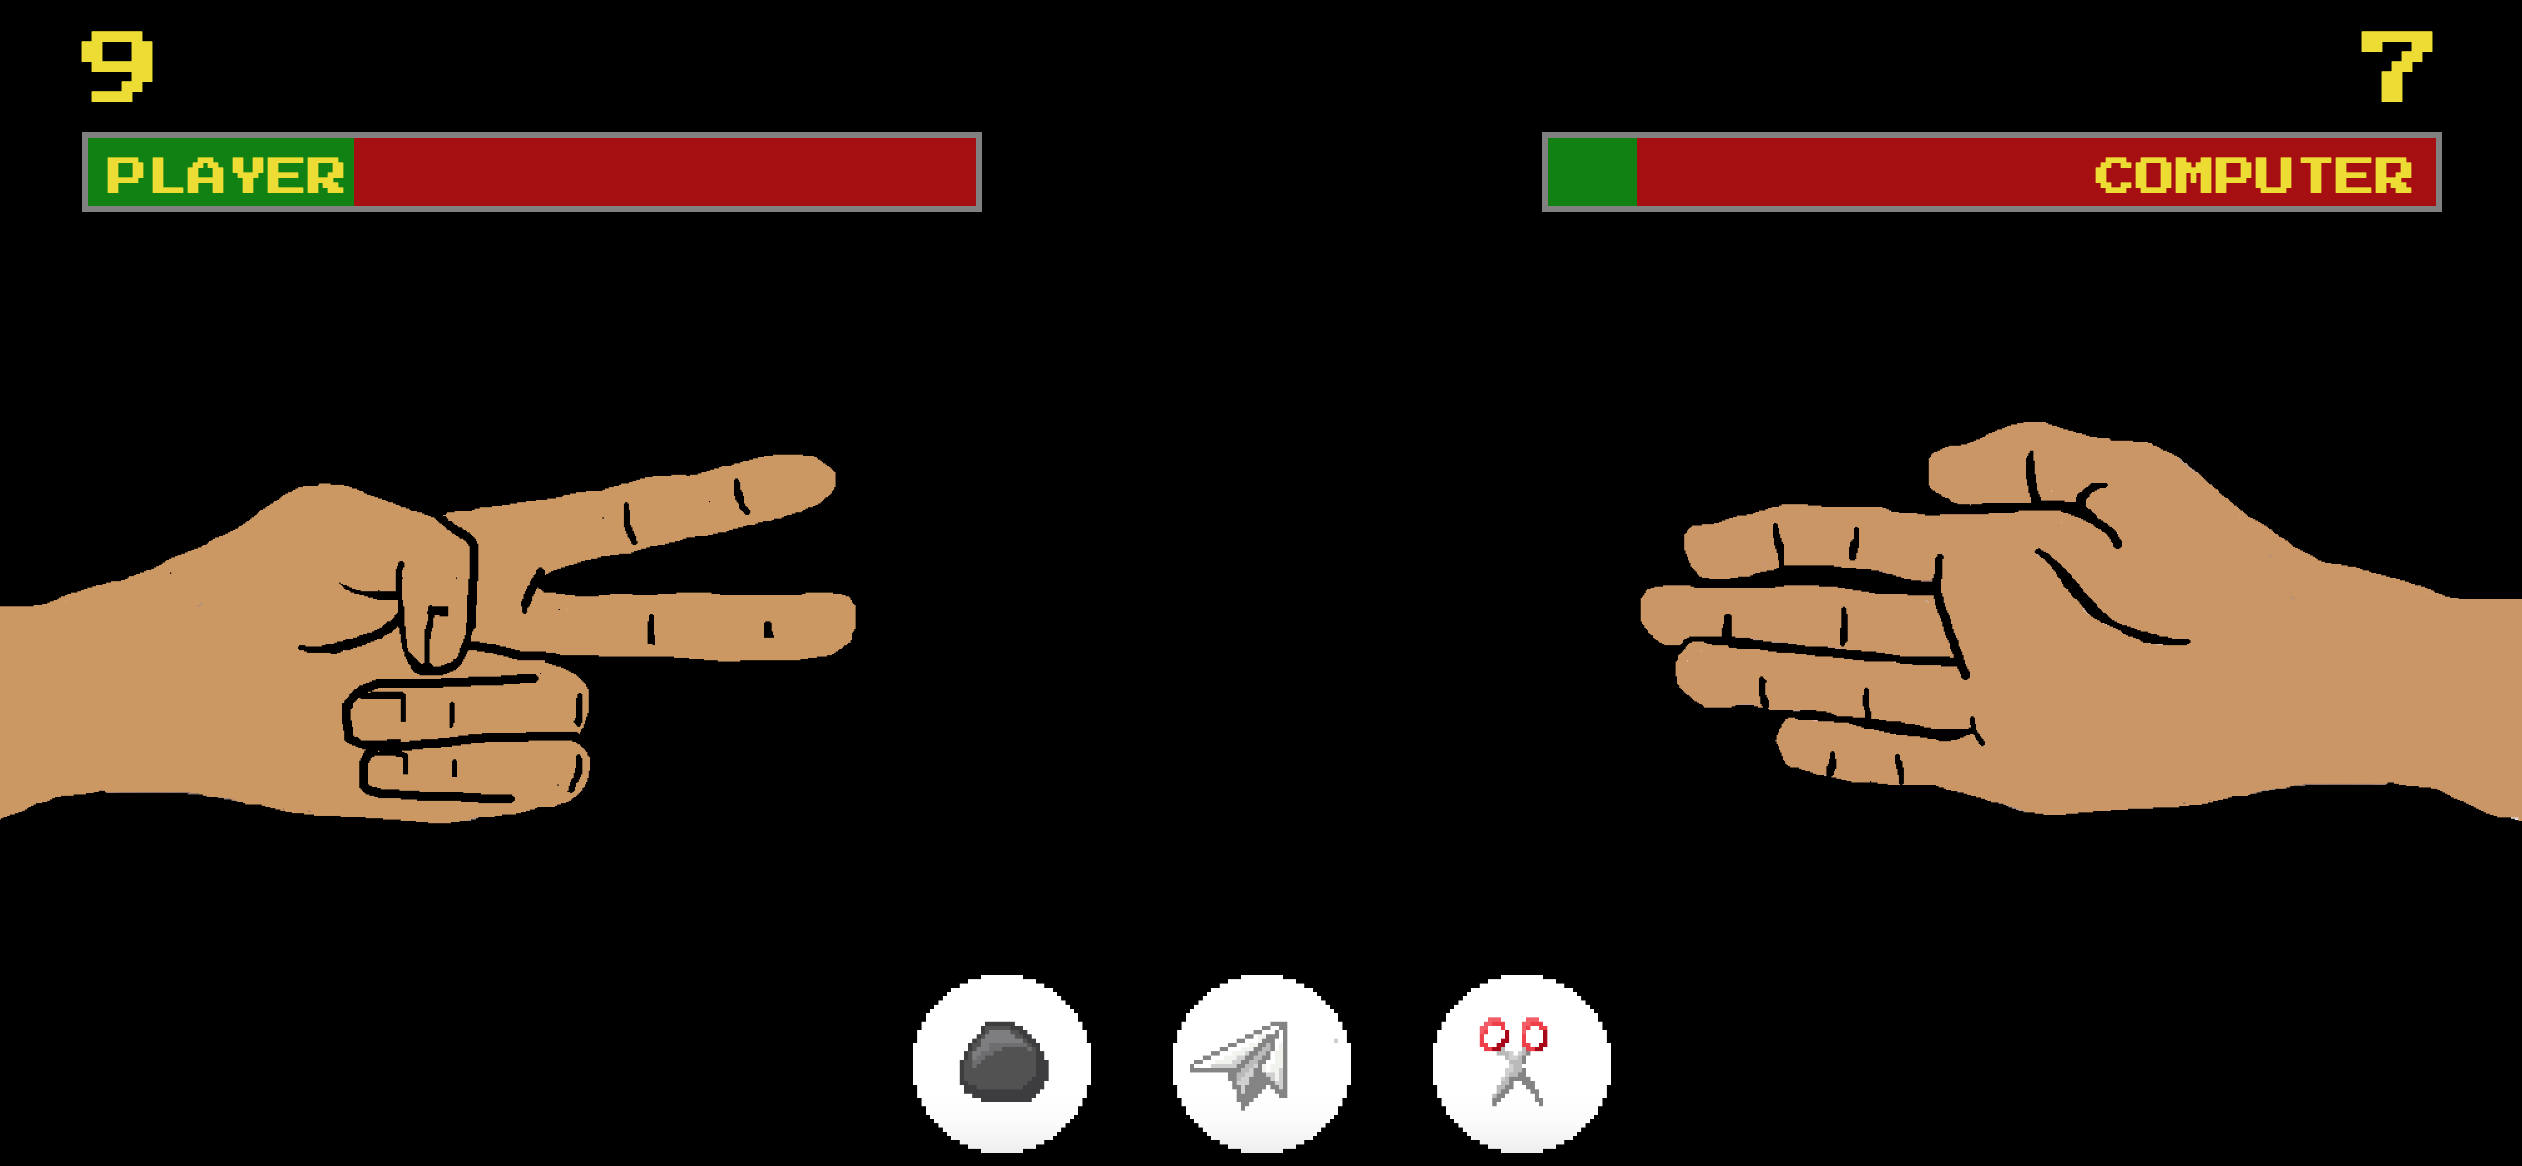
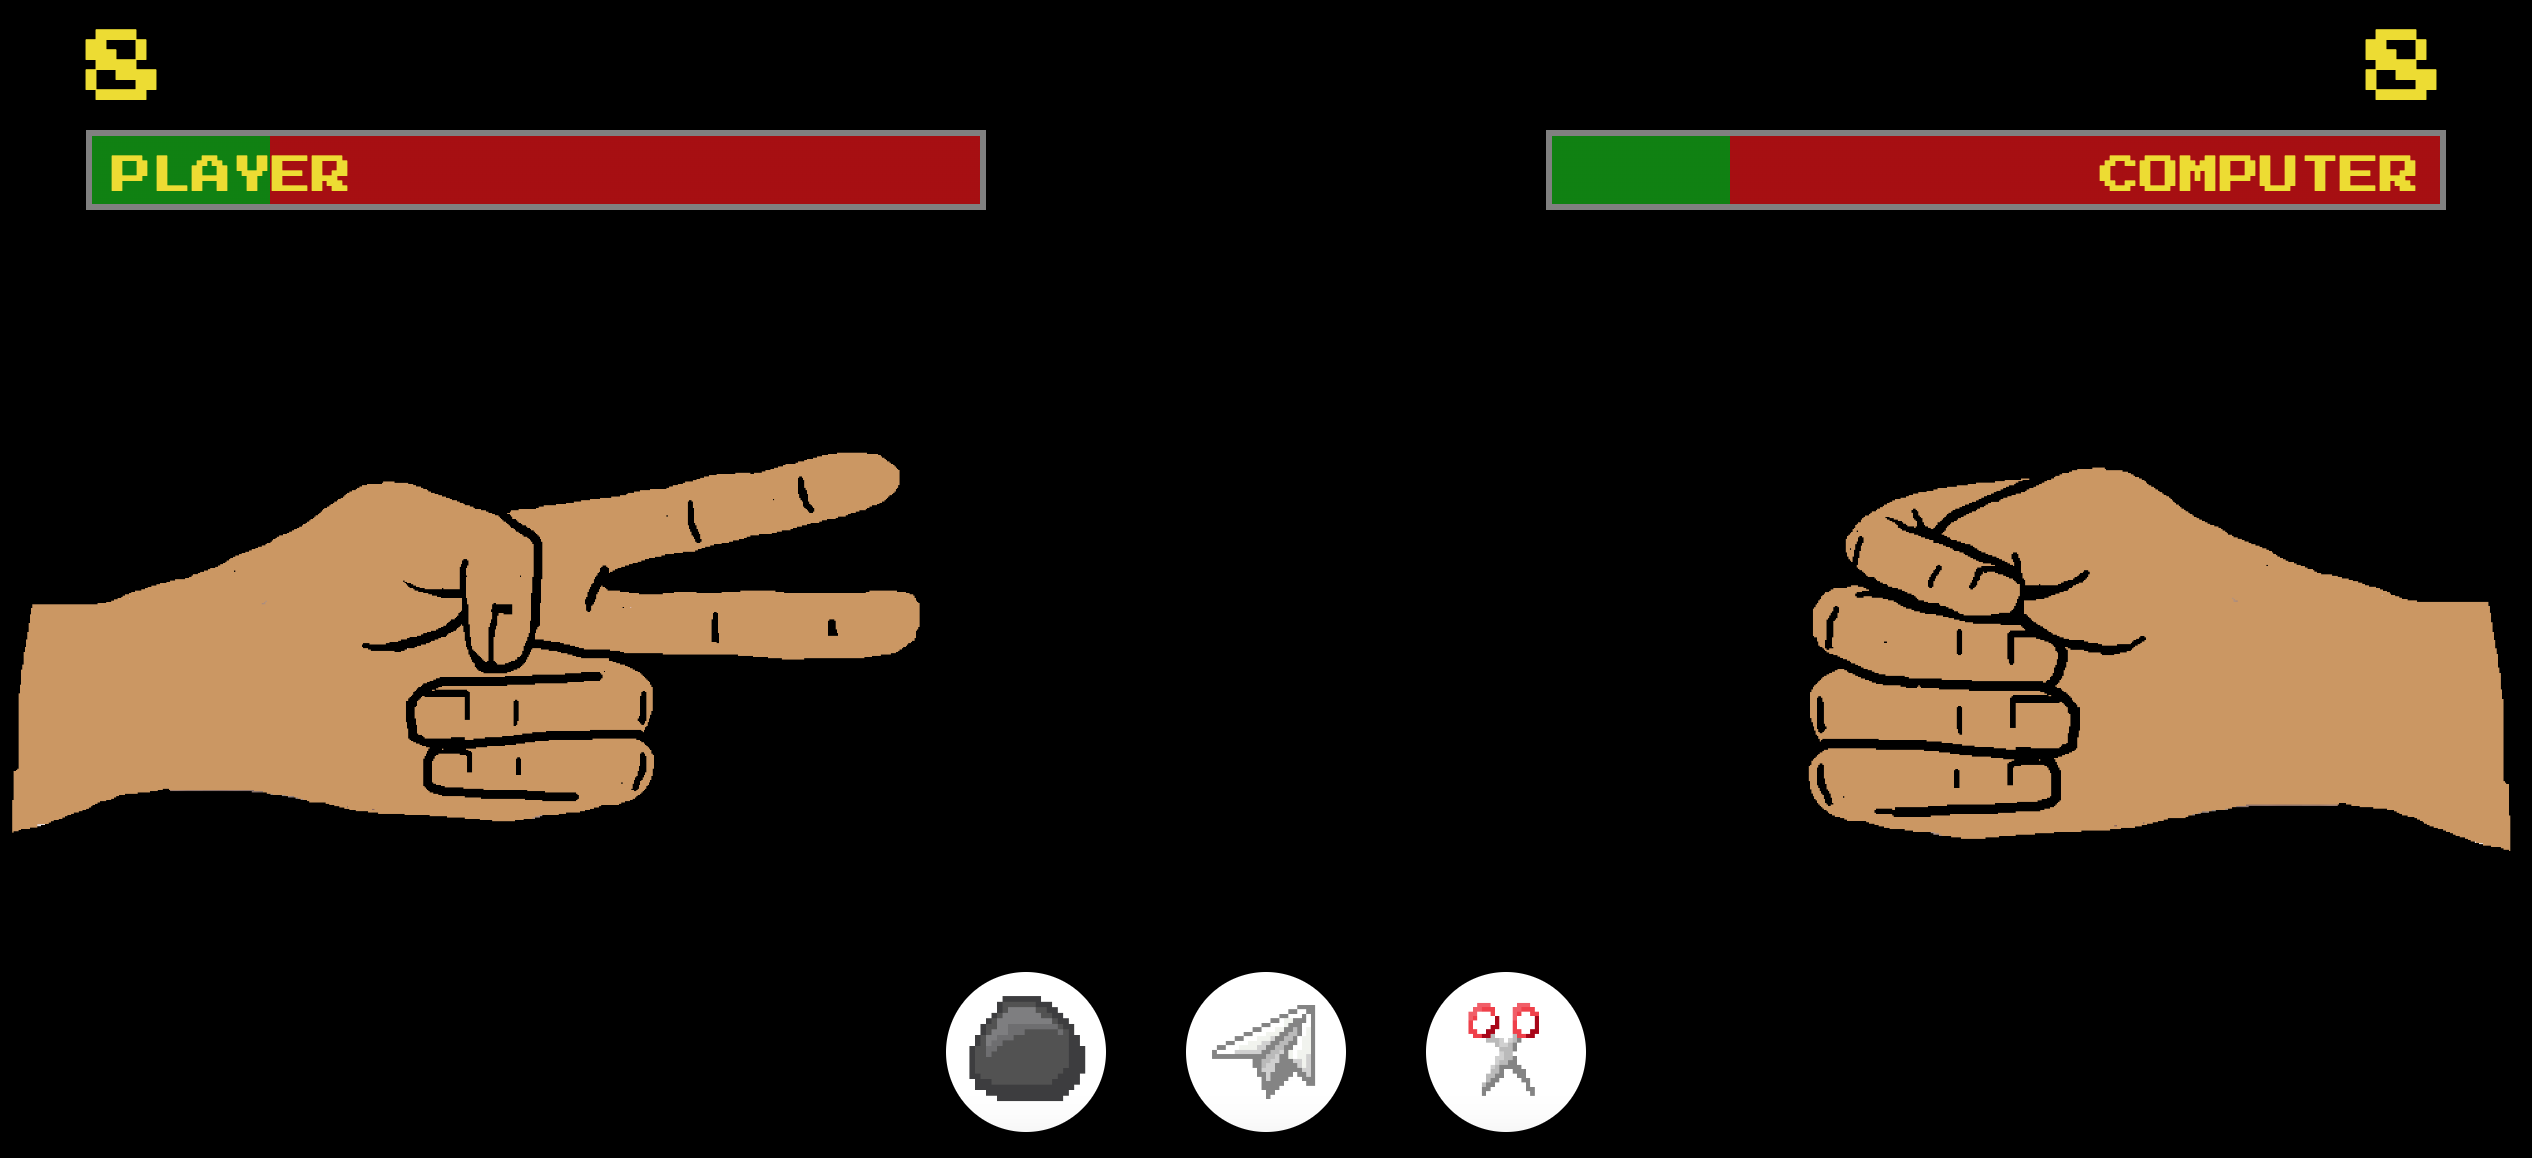
Adjust style for choice images

diff --git a/css/style.css b/css/style.css
@@ -65,7 +65,6 @@ body {
   display: none;
   height: 250px;
   width: 500px;
-  left: -30px;
 }
 
 #player-choice-rock {
@@ -111,27 +110,24 @@ footer {
 }
 #buttons .button {
   margin: 0 20px;
+  height: 80px;
+  width: 80px;
+  background-color: #ffffff;
+  background-position: center;
+  background-repeat: no-repeat;
+  border-radius: 50%;
 }
 #buttons #play-rock {
-  height: 90px;
-  width: 90px;
   background-image: url("/images/choice-rock.png");
   background-size: contain;
-  background-repeat: no-repeat;
 }
 #buttons #play-paper {
-  height: 90px;
-  width: 90px;
   background-image: url("/images/choice-paper.png");
-  background-size: contain;
-  background-repeat: no-repeat;
+  background-size: 70%;
 }
 #buttons #play-scissors {
-  height: 90px;
-  width: 90px;
   background-image: url("/images/choice-scissors.png");
-  background-size: contain;
-  background-repeat: no-repeat;
+  background-size: 80%;
 }
 
[2 lines of base64/hex data omitted]

diff --git a/sass/style.scss b/sass/style.scss
@@ -76,7 +76,7 @@ body {
             display: none;
             height: 250px;
             width: 500px;
-            left: -30px;
+            // left: -30px;
         }
     }
 
@@ -125,29 +125,27 @@ footer {
 
     .button {
         margin: 0 20px;
+        height: 80px;
+        width: 80px;
+        background-color: $primary-light;
+        background-position: center;
+        background-repeat: no-repeat;
+        border-radius: 50%;
     }
 
     #play-rock {
-        height: 90px;
-        width: 90px;
         background-image: url('/images/choice-rock.png');
         background-size: contain;
-        background-repeat: no-repeat;
+        
     }
 
     #play-paper {
-        height: 90px;
-        width: 90px;
         background-image: url('/images/choice-paper.png');
-        background-size: contain;
-        background-repeat: no-repeat;
+        background-size: 70%;
     }
 
     #play-scissors {
-        height: 90px;
-        width: 90px;
         background-image: url('/images/choice-scissors.png');
-        background-size: contain;
-        background-repeat: no-repeat;
+        background-size: 80%;
     }
 }
